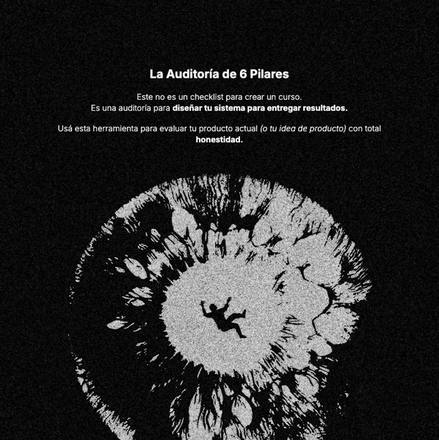
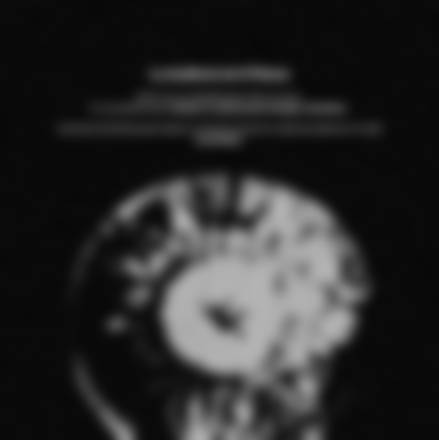
Cerrar lo que un alumno curioso podía romper
- la contraseña devuelve un pase firmado (12 h, por área); sin él no se
  manda el formulario ni suman clicks
- /admin bloquea la IP tras 8 PIN incorrectos en 15 min
- portadas desenfocadas en el archivo, no solo por CSS
- CSV sin fórmulas ejecutables; CSP, X-Frame-Options y nosniff
- la IP real llega al backend para poder frenar por IP

diff --git a/frontend/src/pages/Recurso.jsx b/frontend/src/pages/Recurso.jsx
@@ -18,8 +18,9 @@ export default function Recurso() {
     window.scrollTo(0, 0)
   }
 
-  if (!progreso.desbloqueado) {
-    return <Contrasena area={area} info={info} onOk={() => avanzar({ desbloqueado: true })} />
+  // Sin pase firmado no hay acceso: el viejo { desbloqueado: true } ya no alcanza.
+  if (!progreso.token) {
+    return <Contrasena area={area} info={info} aviso={progreso.aviso} onOk={(token) => setProgreso(guardarProgreso(area, { token, aviso: '' }))} />
   }
   return (
     <div className="rc-root">
@@ -28,9 +29,15 @@ export default function Recurso() {
       </header>
       {progreso.solicitudId ? null : <SopSides sops={info.sops} mobile={false} />}
       {progreso.solicitudId ? (
-        <Sops area={area} info={info} solicitudId={progreso.solicitudId} />
+        <Sops area={area} info={info} solicitudId={progreso.solicitudId} token={progreso.token} />
       ) : (
-        <Formulario area={area} info={info} onOk={(id) => avanzar({ solicitudId: id })} />
+        <Formulario
+          area={area}
+          info={info}
+          token={progreso.token}
+          onOk={(id) => avanzar({ solicitudId: id })}
+          onVencido={(aviso) => setProgreso(guardarProgreso(area, { token: '', aviso }))}
+        />
       )}
     </div>
   )
@@ -46,9 +53,9 @@ function Spinner() {
   return <span className="rc-spin" aria-hidden="true" />
 }
 
-function Contrasena({ area, info, onOk }) {
+function Contrasena({ area, info, aviso, onOk }) {
   const [password, setPassword] = useState('')
-  const [error, setError] = useState('')
+  const [error, setError] = useState(aviso || '')
   const [loading, setLoading] = useState(false)
 
   const onSubmit = async (e) => {
@@ -56,8 +63,8 @@ function Contrasena({ area, info, onOk }) {
     setError('')
     setLoading(true)
     try {
-      await unlock(area, password)
-      onOk()
+      const { token } = await unlock(area, password)
+      onOk(token)
     } catch (err) {
       setError(err.message)
     } finally {
@@ -103,7 +110,7 @@ function Contrasena({ area, info, onOk }) {
   )
 }
 
-function Formulario({ area, info, onOk }) {
+function Formulario({ area, info, token, onOk, onVencido }) {
   const [telefono, setTelefono] = useState('')
   const [cuello, setCuello] = useState('')
   const [otro, setOtro] = useState('')
@@ -119,9 +126,10 @@ function Formulario({ area, info, onOk }) {
     setError('')
     setLoading(true)
     try {
-      const { id } = await crearSolicitud(area, { telefono, cuello: cuelloFinal, intento })
+      const { id } = await crearSolicitud(area, { telefono, cuello: cuelloFinal, intento }, token)
       onOk(id)
     } catch (err) {
+      if (err.status === 401) return onVencido(err.message)
       setError(err.message)
     } finally {
       setLoading(false)
@@ -204,8 +212,8 @@ function Formulario({ area, info, onOk }) {
   )
 }
 
-function Sops({ area, info, solicitudId }) {
-  const href = whatsappHref(area, solicitudId)
+function Sops({ area, info, solicitudId, token }) {
+  const href = whatsappHref(area, solicitudId, undefined, token)
   return (
     <main className="rc-main rc-main--wide">
       <h1 className="rc-title">
@@ -218,7 +226,7 @@ function Sops({ area, info, solicitudId }) {
           <a
             key={sop.titulo}
             className={`rc-sop${sop.imagen ? ' rc-sop--cover' : ''}`}
-            href={whatsappHref(area, solicitudId, sop.titulo)}
+            href={whatsappHref(area, solicitudId, sop.titulo, token)}
             target="_blank"
             rel="noopener noreferrer"
             aria-label={`Desbloquear ${sop.titulo} por WhatsApp`}

diff --git a/frontend/src/recursos.css b/frontend/src/recursos.css
@@ -93,7 +93,7 @@ button, input, textarea { font: inherit; color: inherit; -webkit-tap-highlight-c
   width: 100%;
   height: 100%;
   object-fit: cover;
-  filter: blur(2px) brightness(0.8);
+  filter: brightness(0.8);
   transform: scale(1.08);
 }
 .rc-side__lock {
@@ -142,7 +142,7 @@ button, input, textarea { font: inherit; color: inherit; -webkit-tap-highlight-c
   box-shadow: 0 0 0 1px rgba(255, 255, 255, 0.08), 0 0 60px 18px rgba(0, 0, 0, 0.85), 0 20px 70px -10px rgba(176, 69, 69, 0.28);
   animation: rc-entra 900ms var(--ease) var(--d) both, rc-respira-sop var(--t, 8s) ease-in-out calc(var(--d) + 900ms) infinite;
 }
-.rc-sides--home .rc-side img { filter: blur(4px) brightness(0.55) contrast(1.1) saturate(0.9); transform: scale(1.1); }
+.rc-sides--home .rc-side img { filter: blur(1.5px) brightness(0.55) contrast(1.1) saturate(0.9); transform: scale(1.1); }
 /* viñeta: los bordes se hunden en el negro */
 .rc-sides--home .rc-side::after {
   content: '';
@@ -451,7 +451,8 @@ textarea.rc-input { resize: none; overflow: hidden; min-height: 96px; }
   .rc-sop:hover .rc-sop__lock { transform: scale(1.08); color: #fff; background: var(--red); }
 }
 
-/* Con portada real del entregable: se ve lo justo para que den ganas. */
+/* Con portada real del entregable: se ve lo justo para que den ganas. Las imágenes ya vienen
+   desenfocadas de fábrica (public/sops), así que descargarlas no deja leer nada. */
 .rc-sop--cover { min-height: 92px; isolation: isolate; }
 /* el borde va encima de la portada; si no, la imagen lo tapa */
 .rc-sop--cover::after {
@@ -471,7 +472,7 @@ textarea.rc-input { resize: none; overflow: hidden; min-height: 96px; }
   height: calc(100% + 16px);
   object-fit: cover;
   object-position: center 60%;
-  filter: blur(2.5px) brightness(0.85) saturate(1.1);
+  filter: brightness(0.85) saturate(1.1);
   transition: filter 300ms var(--ease), transform 400ms var(--ease);
 }
 .rc-sop--cover::before {
@@ -491,7 +492,7 @@ textarea.rc-input { resize: none; overflow: hidden; min-height: 96px; }
   text-shadow: 0 2px 12px rgba(0, 0, 0, 0.8);
 }
 @media (hover: hover) and (pointer: fine) {
-  .rc-sop--cover:hover .rc-sop__cover { filter: blur(1.5px) brightness(1) saturate(1.1); transform: scale(1.04); }
+  .rc-sop--cover:hover .rc-sop__cover { filter: brightness(1) saturate(1.1); transform: scale(1.04); }
   .rc-sop--cover:hover::after { box-shadow: inset 0 0 0 1px rgba(214, 92, 92, 0.6); }
 }
 

diff --git a/frontend/src/api.js b/frontend/src/api.js
@@ -4,12 +4,13 @@ const esperar = (ms) => new Promise((r) => setTimeout(r, ms))
 
 // Con todo el webinar entrando a la vez, un corte de red o un 502/503/504 puntual no
 // tiene que llegarle a la persona: se reintenta dos veces antes de mostrar el error.
+// El 429 es el límite de pedidos del nginx: esperar un segundo alcanza.
 async function fetchConReintento(url, init) {
   const pausas = [700, 1800]
   for (let intento = 0; ; intento++) {
     try {
       const res = await fetch(url, init)
-      if (![502, 503, 504].includes(res.status) || intento >= pausas.length) return res
+      if (![429, 502, 503, 504].includes(res.status) || intento >= pausas.length) return res
     } catch (err) {
       if (intento >= pausas.length) throw new Error('Se cortó la conexión. Probá de nuevo.', { cause: err })
     }
@@ -17,8 +18,9 @@ async function fetchConReintento(url, init) {
   }
 }
 
-async function request(path, { method = 'GET', body, pin } = {}) {
+async function request(path, { method = 'GET', body, pin, token } = {}) {
   const headers = {}
+  if (token) headers['X-Recursos-Token'] = token
   if (body !== undefined) headers['Content-Type'] = 'application/json'
   if (pin) headers['X-Admin-Pin'] = pin
   const res = await fetchConReintento(`${BASE}${path}`, {
@@ -45,13 +47,14 @@ async function request(path, { method = 'GET', body, pin } = {}) {
 export const unlock = (area, password) =>
   request(`/api/recursos/${area}/unlock`, { method: 'POST', body: { password } }).then((r) => r.json())
 
-export const crearSolicitud = (area, body) =>
-  request(`/api/recursos/${area}/solicitudes`, { method: 'POST', body }).then((r) => r.json())
+export const crearSolicitud = (area, body, token) =>
+  request(`/api/recursos/${area}/solicitudes`, { method: 'POST', body, token }).then((r) => r.json())
 
 // El click se cuenta en el server, que después redirige a wa.me.
-export function whatsappHref(area, solicitudId, recurso) {
+export function whatsappHref(area, solicitudId, recurso, token) {
   const params = new URLSearchParams()
   if (solicitudId) params.set('s', solicitudId)
+  if (token) params.set('t', token)
   if (recurso) params.set('r', recurso)
   const qs = params.toString()
   return `${BASE}/api/recursos/${area}/whatsapp${qs ? `?${qs}` : ''}`

diff --git a/backend/src/services/recursos_services.py b/backend/src/services/recursos_services.py
@@ -9,7 +9,7 @@ from datetime import datetime, timedelta
 
 from pony.orm import db_session, desc, select
 
-from src import schemas
+from src import acceso, schemas
 from src.areas import get_area, password_for
 from src.models import Desbloqueo, Solicitud
 
@@ -27,11 +27,12 @@ class RecursosServices:
         if not hmac.compare_digest(esperada.encode(), _normalizar(password).encode()):
             raise HTTPException(status_code=401, detail="Esa no es la contraseña. Escuchá a Juan 👀")
         Desbloqueo(area=slug)
-        return schemas.UnlockResponse(ok=True)
+        return schemas.UnlockResponse(ok=True, token=acceso.emitir(slug))
 
     @db_session
-    def crear_solicitud(self, slug: str, body: schemas.SolicitudRequest) -> schemas.SolicitudResponse:
+    def crear_solicitud(self, slug: str, body: schemas.SolicitudRequest, pase: str | None) -> schemas.SolicitudResponse:
         get_area(slug)
+        acceso.exigir(slug, pase)
         digitos = re.sub(r"\D", "", body.telefono)
         if len(digitos) < 8:
             raise HTTPException(status_code=422, detail="Revisá el número: le faltan dígitos.")
@@ -55,10 +56,10 @@ class RecursosServices:
         return schemas.SolicitudResponse(id=solicitud.id)
 
     @db_session
-    def whatsapp_url(self, slug: str, solicitud_id: int | None, recurso: str | None) -> str:
-        """Suma el click (si viene de una solicitud) y arma el link al chat de Juan."""
+    def whatsapp_url(self, slug: str, solicitud_id: int | None, recurso: str | None, pase: str | None) -> str:
+        """Suma el click (solo con pase válido, así no se inflan) y arma el link al chat de Juan."""
         area = get_area(slug)
-        if solicitud_id:
+        if solicitud_id and acceso.valido(slug, pase):
             solicitud = Solicitud.get(id=solicitud_id, area=slug)
             if solicitud:
                 solicitud.whatsapp_clicks += 1

diff --git a/backend/src/acceso.py b/backend/src/acceso.py
@@ -1,0 +1,48 @@
+"""Pase que da la contraseña correcta: firmado, por área y con vencimiento.
+
+Sin él no se puede mandar el formulario ni sumar clicks, así que tocar el localStorage
+del navegador ya no alcanza para saltarse la contraseña. La firma incluye la contraseña
+vigente: si Juan la cambia, los pases viejos dejan de valer.
+"""
+
+import base64
+import hashlib
+import hmac
+import time
+
+from decouple import config
+from fastapi import HTTPException
+
+from src.areas import password_for
+
+DURACION = 12 * 3600
+
+
+def _clave(slug: str) -> bytes:
+    secreto = config("RECURSOS_SECRET", default="") or (
+        # respaldo determinístico: los 4 procesos tienen que firmar igual
+        config("ADMIN_PIN", default="") + config("DB_PASS", default="") + config("DB_HOST", default="")
+    )
+    return hashlib.sha256(f"{secreto}|{password_for(slug)}|{slug}".encode()).digest()
+
+
+def emitir(slug: str) -> str:
+    vence = str(int(time.time()) + DURACION)
+    firma = hmac.new(_clave(slug), vence.encode(), hashlib.sha256).digest()
+    return f"{vence}.{base64.urlsafe_b64encode(firma).decode().rstrip('=')}"
+
+
+def valido(slug: str, pase: str | None) -> bool:
+    try:
+        vence, firma = (pase or "").split(".", 1)
+        if int(vence) < time.time():
+            return False
+        esperada = base64.urlsafe_b64encode(hmac.new(_clave(slug), vence.encode(), hashlib.sha256).digest()).decode().rstrip("=")
+        return hmac.compare_digest(esperada, firma)
+    except (ValueError, TypeError):
+        return False
+
+
+def exigir(slug: str, pase: str | None) -> None:
+    if not valido(slug, pase):
+        raise HTTPException(status_code=401, detail="Tu acceso venció. Volvé a poner la contraseña.")

diff --git a/backend/src/admin_auth.py b/backend/src/admin_auth.py
@@ -1,10 +1,30 @@
 import hmac
+from datetime import datetime, timedelta
 
 from decouple import config
-from fastapi import Header, HTTPException
+from fastapi import Header, HTTPException, Request
+from pony.orm import commit, count, db_session
+
+from src.models import IntentoAdmin
+
+MAX_FALLOS = 8
+VENTANA = timedelta(minutes=15)
 
 
-def require_admin(x_admin_pin: str = Header(default="")) -> None:
+def ip_cliente(request: Request) -> str:
+    # El nginx del host pone la IP real y el del contenedor la pasa tal cual; el backend
+    # no es alcanzable desde afuera, así que el header es confiable.
+    return request.headers.get("x-real-ip") or (request.client.host if request.client else "?")
+
+
+@db_session
+def require_admin(request: Request, x_admin_pin: str = Header(default="")) -> None:
+    ip = ip_cliente(request)
+    desde = datetime.utcnow() - VENTANA
+    if count(i for i in IntentoAdmin if i.ip == ip and i.created_at >= desde) >= MAX_FALLOS:
+        raise HTTPException(status_code=429, detail="Demasiados intentos. Probá de nuevo en 15 minutos.")
     pin = config("ADMIN_PIN", default="")
-    if not pin or not hmac.compare_digest(pin, x_admin_pin):
+    if not pin or not hmac.compare_digest(pin.encode(), x_admin_pin.encode()):
+        IntentoAdmin(ip=ip)
+        commit()  # el db_session deshace todo al salir con excepción: el intento se guarda antes
         raise HTTPException(status_code=401, detail="PIN incorrecto.")

diff --git a/backend/src/controllers/recursos_controller.py b/backend/src/controllers/recursos_controller.py
@@ -1,6 +1,6 @@
 from typing import Optional
 
-from fastapi import APIRouter, HTTPException
+from fastapi import APIRouter, Header, HTTPException
 from fastapi.responses import RedirectResponse
 
 from src import schemas
@@ -21,9 +21,9 @@ def unlock(area: str, body: schemas.UnlockRequest):
 
 
 @router.post("/{area}/solicitudes", response_model=schemas.SolicitudResponse)
-def crear_solicitud(area: str, body: schemas.SolicitudRequest):
+def crear_solicitud(area: str, body: schemas.SolicitudRequest, x_recursos_token: str = Header(default="")):
     try:
-        return service.crear_solicitud(area, body)
+        return service.crear_solicitud(area, body, x_recursos_token)
     except HTTPException as e:
         raise e
     except Exception:
@@ -31,10 +31,10 @@ def crear_solicitud(area: str, body: schemas.SolicitudRequest):
 
 
 @router.get("/{area}/whatsapp")
-def whatsapp(area: str, s: Optional[int] = None, r: Optional[str] = None):
+def whatsapp(area: str, s: Optional[int] = None, r: Optional[str] = None, t: Optional[str] = None):
     """El candado apunta acá: se cuenta el click en el server y recién ahí se redirige."""
     try:
-        return RedirectResponse(service.whatsapp_url(area, s, r), status_code=302)
+        return RedirectResponse(service.whatsapp_url(area, s, r, t), status_code=302)
     except HTTPException as e:
         raise e
     except Exception:

diff --git a/backend/src/services/admin_services.py b/backend/src/services/admin_services.py
@@ -45,11 +45,17 @@ class AdminServices:
         borradas = {"desbloqueos": delete(d for d in Desbloqueo), "solicitudes": delete(s for s in Solicitud)}
         return borradas
 
+    @staticmethod
+    def _celda(valor):
+        # Excel ejecuta como fórmula lo que empieza con = + - @: se neutraliza con un apóstrofe.
+        texto = str(valor)
+        return "'" + texto if texto[:1] in ("=", "+", "-", "@", "\t", "\r") else texto
+
     def csv(self) -> str:
         data = self.resumen()
         out = io.StringIO()
         writer = csv.writer(out)
         writer.writerow(["id", "area", "telefono", "cuello_de_botella", "que_intento", "clicks_whatsapp", "fecha_utc"])
         for s in data.solicitudes:
-            writer.writerow([s.id, s.area, s.telefono, s.cuello, s.intento, s.whatsapp_clicks, s.created_at.isoformat()])
+            writer.writerow([s.id, s.area, self._celda(s.telefono), self._celda(s.cuello), self._celda(s.intento), s.whatsapp_clicks, s.created_at.isoformat()])
         return "" + out.getvalue()

diff --git a/backend/src/models.py b/backend/src/models.py
@@ -23,3 +23,12 @@ class Solicitud(db.Entity):
     intento = Optional(str, default="")
     whatsapp_clicks = Required(int, default=0)
     created_at = Required(datetime, default=datetime.utcnow)
+
+
+class IntentoAdmin(db.Entity):
+    """PIN incorrecto en /admin: para frenar a quien prueba PINs en serie."""
+
+    _table_ = table("intentos_admin")
+    id = PrimaryKey(int, auto=True)
+    ip = Required(str)
+    created_at = Required(datetime, default=datetime.utcnow)

diff --git a/backend/src/schemas.py b/backend/src/schemas.py
@@ -14,6 +14,7 @@ class UnlockRequest(BaseModel):
 
 class UnlockResponse(BaseModel):
     ok: bool
+    token: str
 
 
 class SolicitudRequest(BaseModel):

diff --git a/README.md b/README.md
@@ -26,6 +26,18 @@ El avance queda en `localStorage`: si alguien vuelve a escanear el QR, retoma do
 Los textos (opciones de cuello de botella, títulos de los SOPs) viven en
 `frontend/src/content/areas.js`.
 
+## Seguridad
+
+- La contraseña se valida en el backend y devuelve un **pase firmado** (12 h, por área, atado a la
+  contraseña vigente). Sin pase no se manda el formulario ni suman clicks: editar el
+  `localStorage` no sirve. Firma con `RECURSOS_SECRET`.
+- `/admin`: 8 PIN incorrectos en 15 min bloquean esa IP (tabla `intentos_admin`, compartida
+  entre los 4 procesos). El PIN tiene que ser largo.
+- Las portadas de `public/sops` ya vienen desenfocadas en el archivo; las originales quedan fuera
+  del repo en `sops-originales/`.
+- El CSV neutraliza fórmulas (`=`, `+`, `-`, `@`). nginx manda CSP, `X-Frame-Options` y
+  `nosniff`; el nginx del host limita pedidos por IP.
+
 ## Local
 
 ```bash
